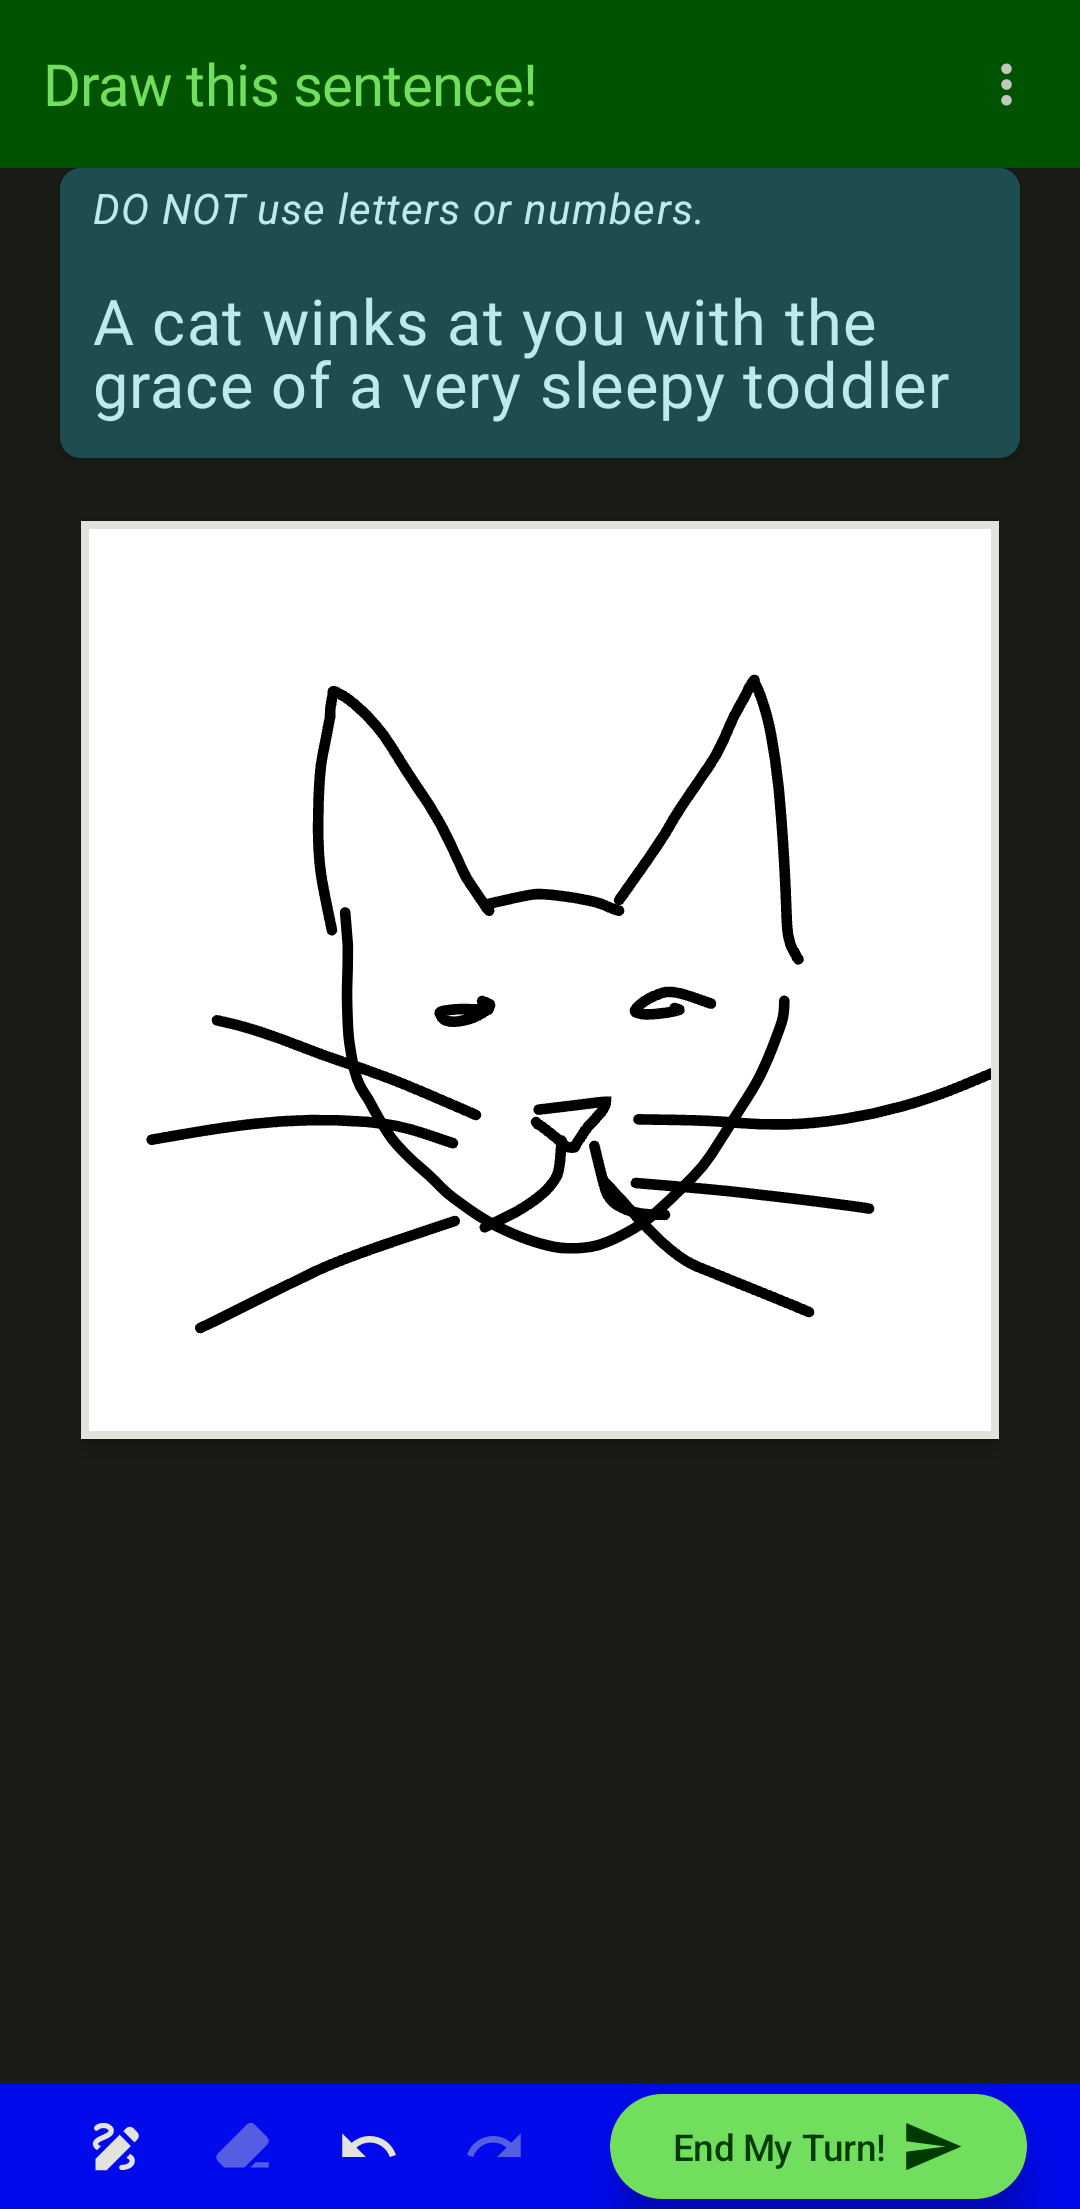
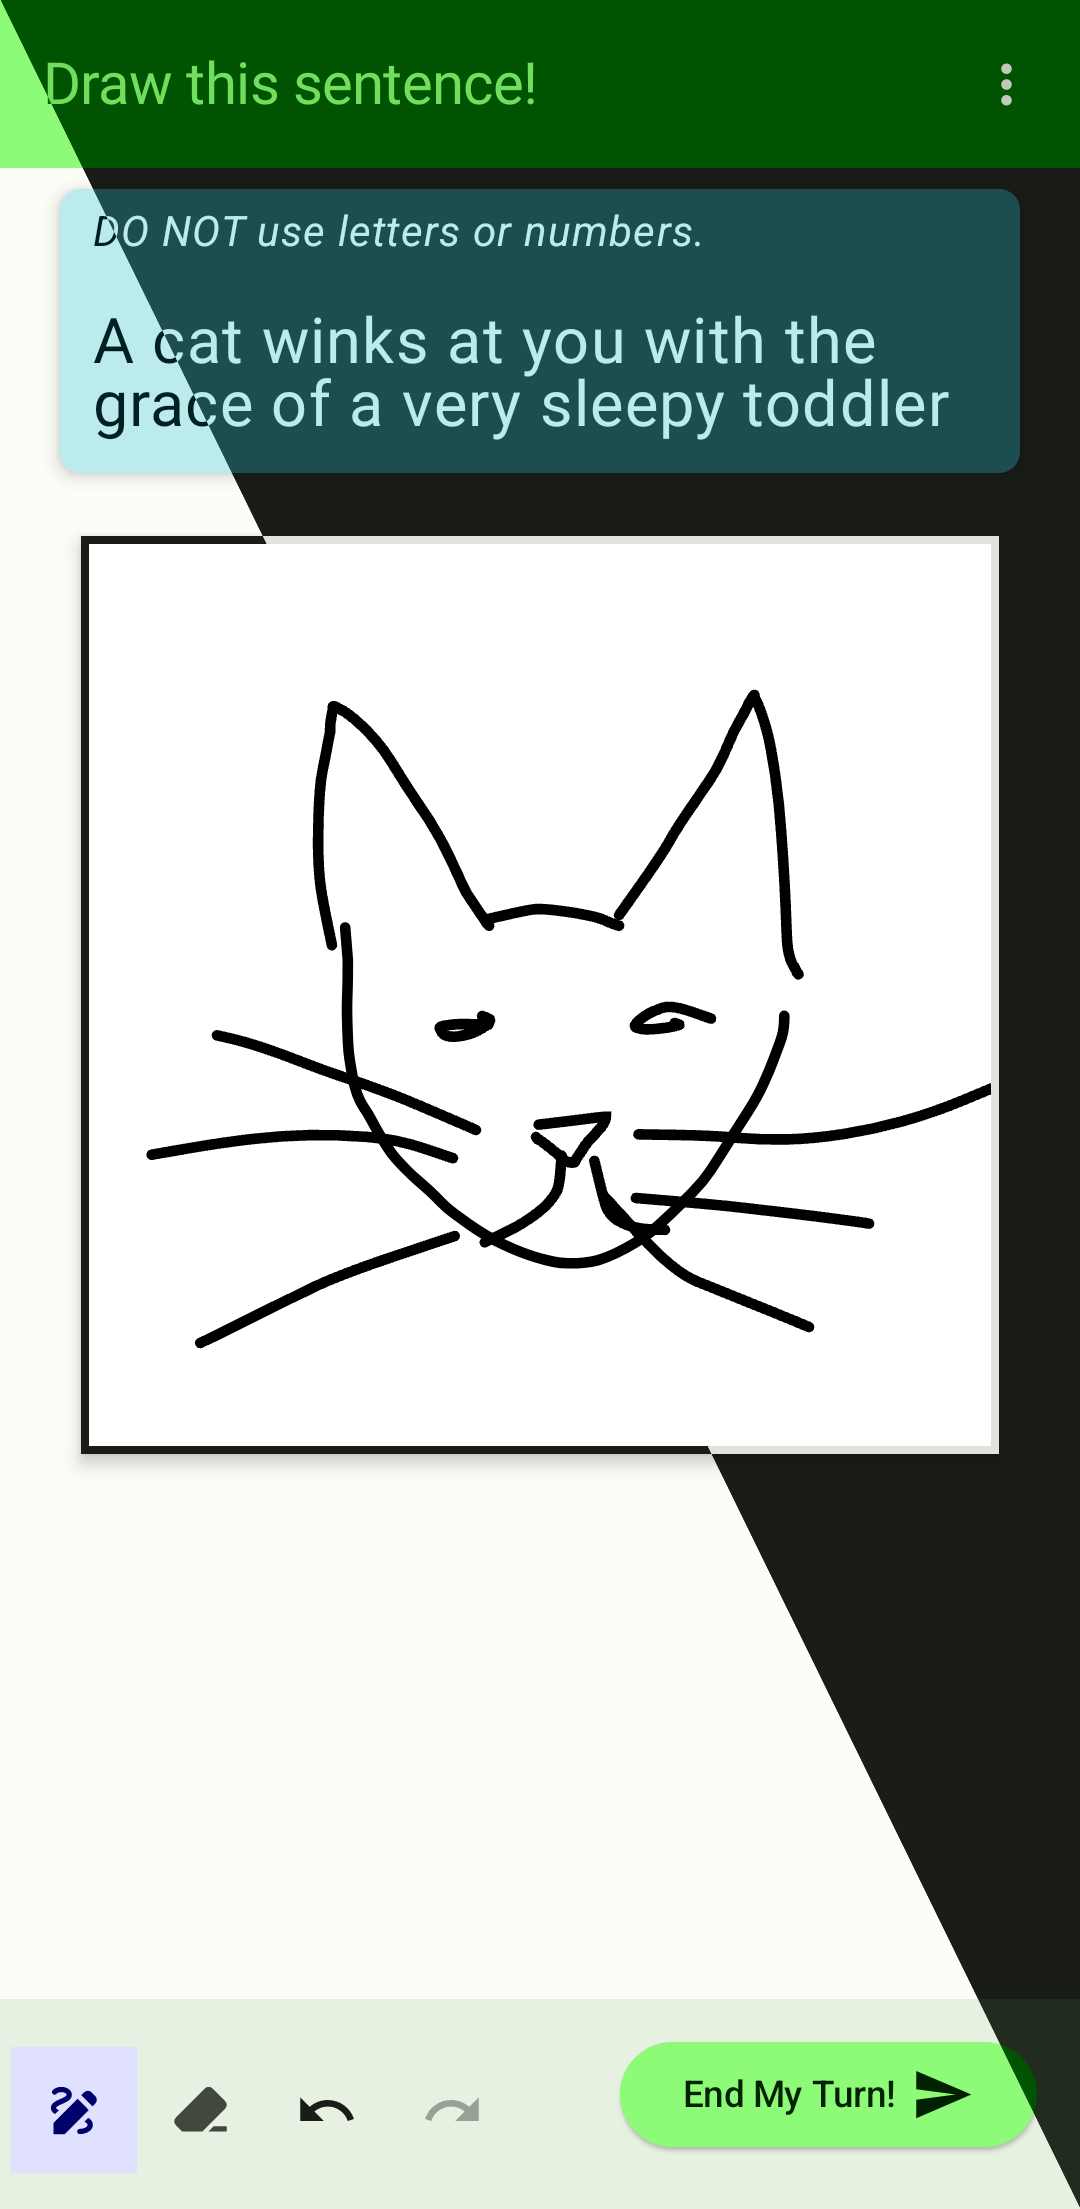
first go at generating light/dark screenshots

diff --git a/app/src/androidTest/java/dev/develsinthedetails/eatpoopyoucat/ui/preview/GenerateScreenShots.kt b/app/src/androidTest/java/dev/develsinthedetails/eatpoopyoucat/ui/preview/GenerateScreenShots.kt
@@ -12,6 +12,8 @@ import dev.develsinthedetails.eatpoopyoucat.compose.home.PreviewHomeScreen
 import dev.develsinthedetails.eatpoopyoucat.compose.sentence.PreviewSentenceScreen
 import dev.develsinthedetails.eatpoopyoucat.compose.sentence.PreviewSentenceScreenWithDrawing
 import dev.develsinthedetails.eatpoopyoucat.ui.theme.AppTheme
+import kotlinx.coroutines.delay
+import kotlinx.coroutines.runBlocking
 import org.junit.Rule
 import org.junit.Test
 
@@ -51,6 +53,7 @@ class GenerateScreenShots {
             }
         }
         saveScreenshot(filename)
+
     }
     @Test
     fun takePreviewSentenceScreenWithDrawingScreenShots(){
@@ -73,5 +76,8 @@ class GenerateScreenShots {
                 bitmap.compress(Bitmap.CompressFormat.PNG, 100, it)
         }
         println("Saved screenshot $filename.png")
+        runBlocking {
+            delay(3_000)
+        }
     }
 }
